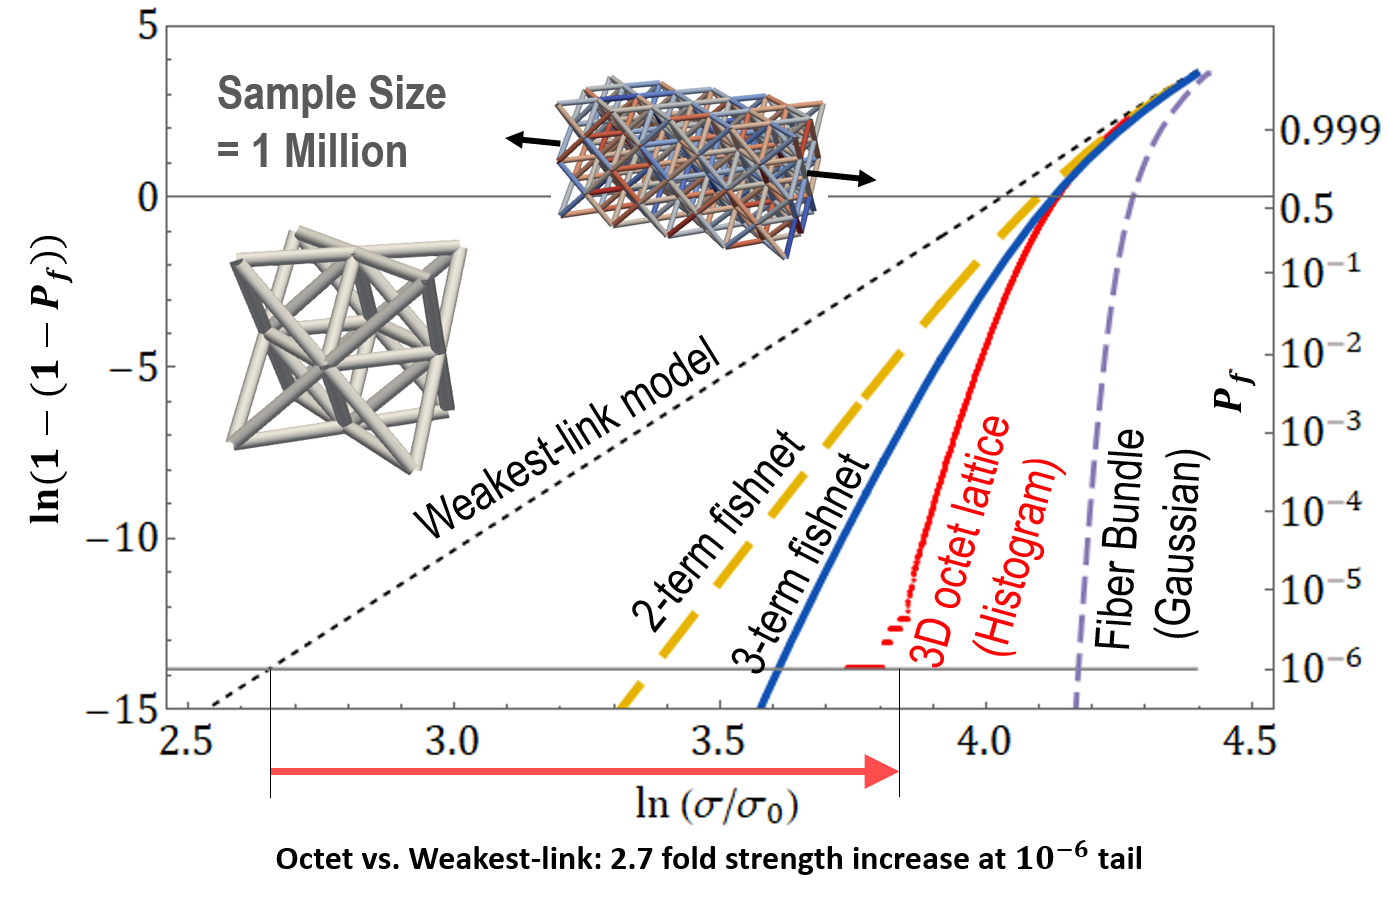
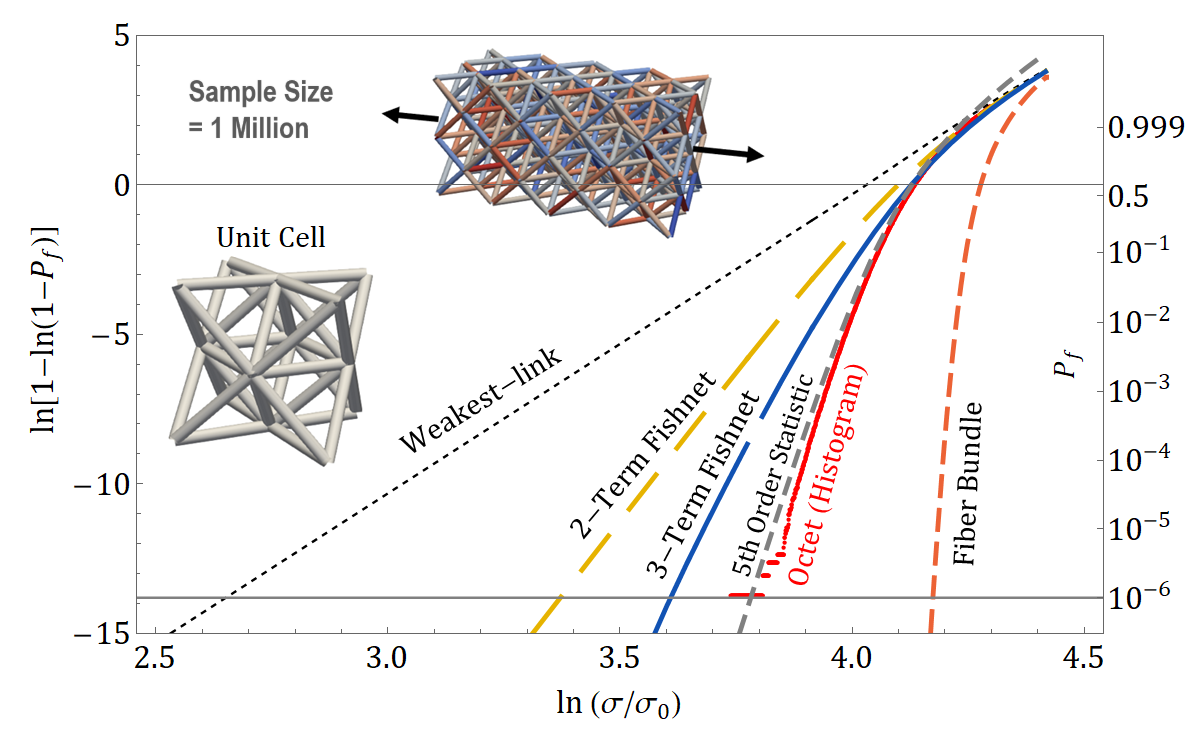
details updated for research.html

diff --git a/files/research.html b/files/research.html
@@ -94,12 +94,12 @@
 		<figure>
 			<center>
 			<img src="../images/schematic_SE.png" alt="fishnets with various sizes" width="600">
-			<figcaption style="font-family: 'Sans-Serif';">Fig.1 Schematic showing four geometrically similar fishnets under uniaxial tension</figcaption>
+			<figcaption style="font-family:'Helvetica', 'Arial', 'Sans-Serif'; font-size: 0.9em;">Fig.1 Schematic showing four geometrically similar fishnets under uniaxial tension.</figcaption>
 		</figure>
 		<figure>
 			<center>
 			<img src="../images/SE_scalings.png" alt="fishnet size effect" width="900">
-			<figcaption style="font-family: 'Sans-Serif';">Fig.2 Effect of longitudinal (left) and transverse (right) scaling</figcaption>
+			<figcaption style="font-family:'Helvetica', 'Arial', 'Sans-Serif'; font-size: 0.9em;">Fig.2 Effect of longitudinal (left) and transverse (right) scaling</figcaption>
 		</figure>
 		<br>
 		<br>
@@ -107,12 +107,12 @@
 			<video width="464" height="176" controls>
 			<source src="../images/F8x16K01.mp4" type=video/mp4>
 			</video>
-			<p style="font-family: 'Sans-Serif';">Damage evolution and load-displacement curve for the smallest fishnet (size: 8x16)</p>
+			<p style="font-family:'Helvetica', 'Arial', 'Sans-Serif'; font-size: 0.9em;">Video: damage evolution and load-displacement curve for the smallest fishnet (size: 8x16).</p>
 			<br>
 			<video width="696" height="264" controls>
 			<source src="../images/F32x64K01.mp4" type=video/mp4>
 			</video>
-			<p style="font-family: 'Sans-Serif';">Damage evolution and load-displacement curve for the larger fishnet (size: 32x64)</p>
+			<p style="font-family:'Helvetica', 'Arial', 'Sans-Serif'; font-size: 0.9em;">Video: damage evolution and load-displacement curve for the larger fishnet (size: 32x64).</p>
 		</center>
 		
 		<h4>Relevant Publications:</h4>
@@ -123,37 +123,42 @@
 		</p>
 		<br>
 		
-		<h3 class="RI_title">Strength Distribution of Octet Nanolattices</h3>
+		<h3 class="RI_title">Strength Distribution of Octet-truss Nanolattices</h3>
 		<p style="font-family:'Helvetica', 'Arial', 'Sans-Serif';">
-		To reach the extreme lower tail of a probability distribution by histogram testing, one would need millions of repetitions. An ulternative method to infer the material failure probability 
-		from experiments or Monte Carlo simulations is formulated. The solution relies on the <b><font color=#5500ff>median strength size effect</font></b>, which is relatively easy to obtain through lab tests. 
-		It describes the change of nominal strength with increasing structure size. To derive the size effect relation, the geometric scaling of a rectangular fishnet is split into transverse and longitudinal scalings, for each of which a simple scaling rule for the 
-		median strength is established. Proportional combination of both then yields the two-dimensional geometric scaling and its size effect. Compared to the direct estimation 
-		via histogram testing, the size effect method requires only a few (typically about six) tests for each of three or four structure sizes to obtain a tight upper bound on the 
-		failure probability distribution.
+		The major takeaway of the fishnet statistics is that the connectivity of the microstructure of a material plays a determining role in its failure probability lower tail. 
+		Therefore, a carefully designed microstructure of a material enhances not only its mean strength but also its one-out-of-a-million quantile strength. In this project, we apply the theory of fishnet statistics 
+		to the the strength distributions of architected nanomaterials such as the octet-truss carbon nanolattices. We demonstrate that the octet truss system can be seen as the <b><font color=#5500ff>union of fishnets 
+		aligned in three mutually orthogonal directions</font></b>, and that this three dimensional fishnet assembly of the octet-truss nanolattice further enhances its lower tail strength
+		compared to the 2D fishnet truss system.
 		</p>
-		
+		<figure>
+			<center>
+			<img src="../images/octet_disassembly.png" alt="octet_fishnet" width="800">
+			<figcaption style="font-family:'Helvetica', 'Arial', 'Sans-Serif'; font-size: 0.9em;">Fig.1 The octet-truss nanolattice can be seen as the union of fishnets aligned in three orthogonal directions. 
+			Each fishnet node on its inside has connectivity 4, while each node inside of an octet-truss nanolattice has connectivity 12.</figcaption>
+		</figure>
+		<br>
 		<figure>
 			<center>
 			<img src="../images/octet.png" alt="octet" width="700">
-			<figcaption style="font-family: 'Sans-Serif';">Fig.1 Histogram of numerical simulations of the strength of octet nanolattices compared with analytical models</figcaption>
+			<figcaption style="font-family:'Helvetica', 'Arial', 'Sans-Serif'; font-size: 0.9em;">Fig.1 Histogram of numerical simulations of the strength of octet nanolattices compared with analytical models.</figcaption>
 		</figure>
 		<br>
 		<center>
-			<video width="544" height="386" controls>
+			<video width="354" height="251" controls>
 			<source src="../images/octet_strain.mp4" type=video/mp4>
 			</video>
-			<p style="font-family: 'Sans-Serif';">Strain field evolution for one random realization (plotted on undeformed configuration)</p>
-			<br>
-			<video width="544" height="386" controls>
+			
+			<video width="354" height="251" controls>
 			<source src="../images/octet_damage.mp4" type=video/mp4>
 			</video>
-			<p style="font-family: 'Sans-Serif';">Damage evolution for one random realization (plotted on undeformed configuration)</p>
-			<br>
+			<p style="font-family:'Helvetica', 'Arial', 'Sans-Serif'; font-size: 0.9em;">Video: strain field evolution (left) and damage evolution (right) for one random realization (plotted on undeformed configuration).</p>
+			<!--<br>
 			<video width="544" height="386" controls>
 			<source src="../images/octet_displacement.mp4" type=video/mp4>
 			</video>
 			<p style="font-family: 'Sans-Serif';">Evolution of nodal horizontal displacement for one random realization (plotted on undeformed configuration)</p>
+			-->
 		</center>
 		<br>
 		
@@ -175,13 +180,13 @@
 			<a href="../images/RC_peakload_3sizes.png"  target="_blank">
 				<img src="../images/RC_peakload_3sizes.png" alt="RC_3_sizes" width="900">
 			</a>
-			<figcaption style="font-family: 'Sans-Serif';">Fig.1 Crack patterns at peak load for RC beams of 3 different sizes (plotted on undeformed configuration).</figcaption>
+			<figcaption style="font-family:'Helvetica', 'Arial', 'Sans-Serif'; font-size: 0.9em;">Fig.1 Crack patterns at peak load for RC beams of 3 different sizes (plotted on undeformed configuration).</figcaption>
 		</figure>
 		<br>
 		<figure>
 			<center>
 			<img src="../images/RC_LDs_type2.png" alt="RC_LDS" width="900">
-			<figcaption style="font-family: 'Sans-Serif';">Fig.2 Left: load-displacement curves for RC beams of 3 different sizes; Right: mean shear shrength
+			<figcaption style="font-family:'Helvetica', 'Arial', 'Sans-Serif'; font-size: 0.9em;">Fig.2 Left: load-displacement curves for RC beams of 3 different sizes; Right: mean shear shrength
 			follows Type-2 size effect law.</figcaption>
 		</figure>
 		
